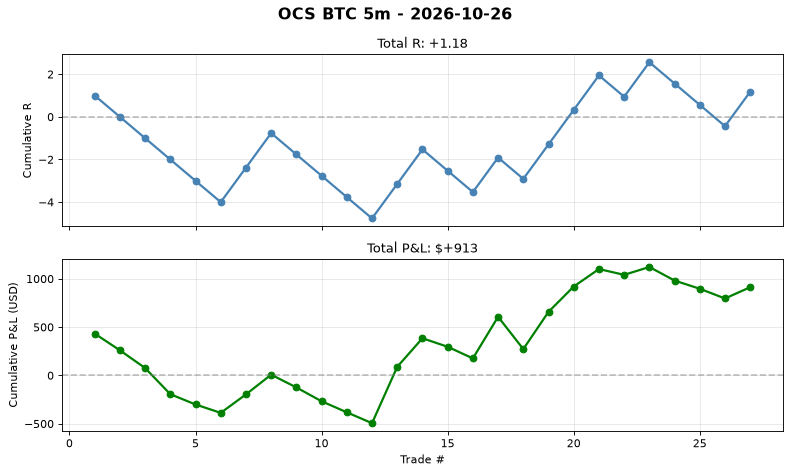
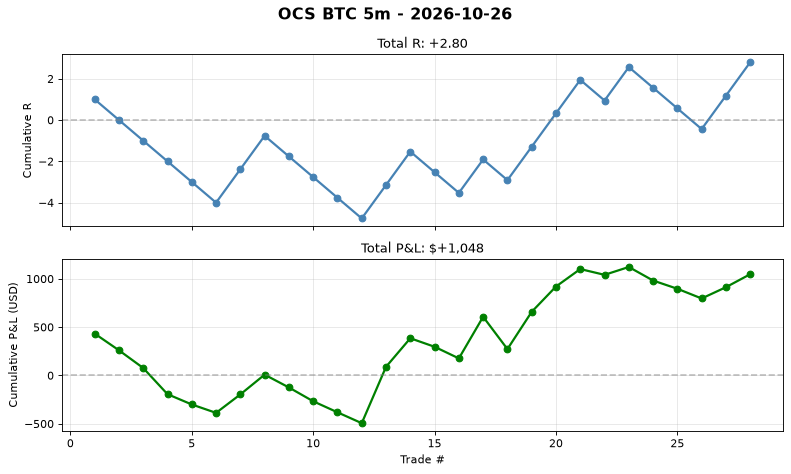
auto(ocs-btc): signal log 2026-10-25T21:28 trades=28

diff --git a/automation/reports/ocs_btc_5m/daily/2026-10-26.md b/automation/reports/ocs_btc_5m/daily/2026-10-26.md
@@ -2,4 +2,4 @@
 
 **No trades today.**
 
-Cumulative stats: 27 trades | WR 40.7% | avg R 0.044
+Cumulative stats: 28 trades | WR 42.9% | avg R 0.1
